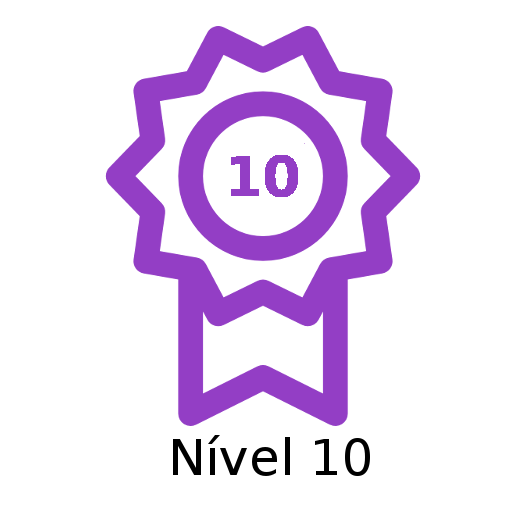
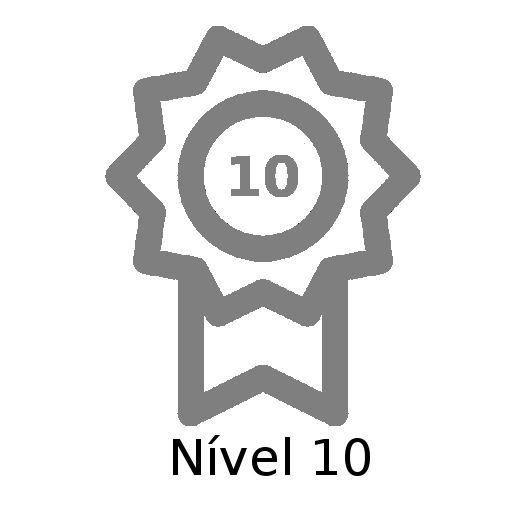
updates bagdes and news

Changed region(s): [[0.1875, 0.0312, 0.8438, 0.8438], [0.4375, 0.2812, 0.5938, 0.4062]]

diff --git a/webapp/scripts/controllers/HomeCtrl.js b/webapp/scripts/controllers/HomeCtrl.js
@@ -19,10 +19,6 @@ angular.module('tutor').controller("HomeCtrl", function ($scope, $location, $mdD
     var levelFiveFlag = true;
     var levelTenFlag = true;
 
-
-
-
-
     var users = [{
         name: "Alan",
         points: 79, //19,
@@ -61,30 +57,29 @@ angular.module('tutor').controller("HomeCtrl", function ($scope, $location, $mdD
     $scope.showQuestions = false;
 
     var opts = [{
-        title: 'Brancos são maioria em empregos de elite e negros ocupam vagas sem qualificação',
-        url: 'https://g1.globo.com/economia/noticia/brancos-sao-maioria-em-empregos-de-elite-e-negros-ocupam-vagas-sem-qualificacao.ghtml',
+        title: 'Crescem VAGAS de emprego exclusivas para negros veja empresas participantes',
+        url: 'https://fdr.com.br/2021/05/13/crescem-vagas-de-emprego-exclusivas-para-negros-veja-empresas-participantes/',
         img: 'assets/default/images/test2.png',
-        abstract: 'Mãe e filha são negras, o grupo populacional no Brasil que ocupa a maioria das vagas em serviços braçais ou que exigem pouco preparo, como operador de telemarketing, vigilante e cortador de cana-de-açúcar.'
+        abstract: 'As empresas estão cada dia mais abrindo VAGAS de emprego exclusivas para negros. Esse método foi criado para combater à desigualdade racial nos mercados de trabalhos. E, também, proporcionar mais oportunidades para que a população negra consiga obter sucesso em sua carreira profissional.'
     }, {
-        title: 'Como a ausência de negros trabalhando em tecnologia impacta os produtos criados para facilitar nosso dia a dia',
-        url: 'https://gauchazh.clicrbs.com.br/tecnologia/noticia/2019/04/como-a-ausencia-de-negros-trabalhando-em-tecnologia-impacta-os-produtos-criados-para-facilitar-nosso-dia-a-dia-cju32g40e00x001nvv1495xmq.html',
+        title: 'Novo presidente do Banco do Brasil: quem é Fausto de Andrade Ribeiro',
+        url: 'https://g1.globo.com/economia/noticia/2021/03/19/novo-presidente-do-banco-do-brasil-quem-e-fausto-de-andrade-ribeiro.ghtml',
         img: 'assets/default/images/test3.png',
-        abstract: 'Depois que vídeo de uma saboneteira cujo sensor só reconhecia peles claras viralizou, questão passou a ser debatida. E soluções para o problema começam a aparecer em iniciativas diversas.'
+        abstract: 'Ribeiro é servidor do Banco do Brasil desde 1988. É formado em Direito e Administração de Empresas, tem especialização em finanças internacionais e pós-graduação em Economia. No BB, o executivo também foi gerente de canais e coordenou a unidade espanhola do banco.'
     }, {
-        title: 'Negros ocupam cargos com menor remuneração no mercado de trabalho',
-        url: 'https://www.correiobraziliense.com.br/app/noticia/eu-estudante/trabalho-e-formacao/2019/11/17/interna-trabalhoeformacao-2019,807077/negros-ocupam-cargos-com-menor-remuneracao-no-mercado-de-trabalho.shtml',
+        title: 'Veja 6 passos para promover igualdade racial dentro das empresas',
+        url: 'https://exame.com/carreira/veja-6-passos-para-promover-igualdade-racial-dentro-das-empresas/',
         img: 'assets/default/images/test4.png',
-        abstract: 'No mês em que se comemora o Dia Nacional da Consciência Negra, IBGE revela que mercado de trabalho ainda coloca obstáculos para a população negra.'
-    }, {
-        title: 'Mulheres e pessoas negras são apenas 1/3 dos profissionais de tecnologia e inovação, aponta pesquisa',
-        url: 'https://www.generonumero.media/mulheres-e-pessoas-negras-sao-apenas-13-dos-profissionais-de-tecnologia-e-inovacao-aponta-pesquisa/',
-        img: 'assets/default/images/test5.png',
-        abstract: 'Estudo #QuemCodaBr mostra que não há nenhuma pessoa negra em 32,7%  das equipes que trabalham com tecnologia no país; mapeamento do PretaLab reúne os perfis de profissionais negras que atuam no setor'
+        abstract: 'Educar sobre questões raciais, fazer um diagnóstico da diversidade na empresa e comprometer a liderança com a pauta racial são os principais caminhos para qualquer organização promover a equidade entre brancos e negros, principalmente nos cargos de liderança.'
     }];
 
-    var random = Math.floor((Math.random() * 123457)) % 4;
-    $scope.currentNew = opts[random];
-    //console.log(currentNew.img)
+    if(configService.getTheme() == "stBlack"){
+        $scope.currentNew = opts[0];
+    } else if(configService.getTheme() == "stWhite"){
+        $scope.currentNew = opts[1];
+    }else{
+        $scope.currentNew = opts[2];
+    }
 
     $scope.getUserColor = function (name) {
         if (name == "Alex")

diff --git a/webapp/scripts/controllers/Badge10Ctrl.js b/webapp/scripts/controllers/Badge10Ctrl.js
@@ -1,5 +1,5 @@
 angular.module('tutor').controller("Badge10Ctrl", function($scope, configService) {
     $scope.getImage = function() {
-        return "assets/" + configService.getTheme() + "/images/badge10.png";
+        return "assets/default/images/badge10.png";
     };
 });

diff --git a/webapp/scripts/controllers/Badge5Ctrl.js b/webapp/scripts/controllers/Badge5Ctrl.js
@@ -1,5 +1,5 @@
 angular.module('tutor').controller("Badge5Ctrl", function($scope, configService) {
     $scope.getImage = function() {
-        return "assets/" + configService.getTheme() + "/images/badge5.png";
+        return "assets/default/images/badge5.png";
     };
 });

diff --git a/webapp/scripts/controllers/BadgeCtrl.js b/webapp/scripts/controllers/BadgeCtrl.js
@@ -1,5 +1,5 @@
 angular.module('tutor').controller("BadgeCtrl", function($scope, configService) {
     $scope.getImage = function() {
-        return "assets/" + configService.getTheme() + "/images/badge.png";
+        return "assets/default/images/badge.png";
     };
 });
